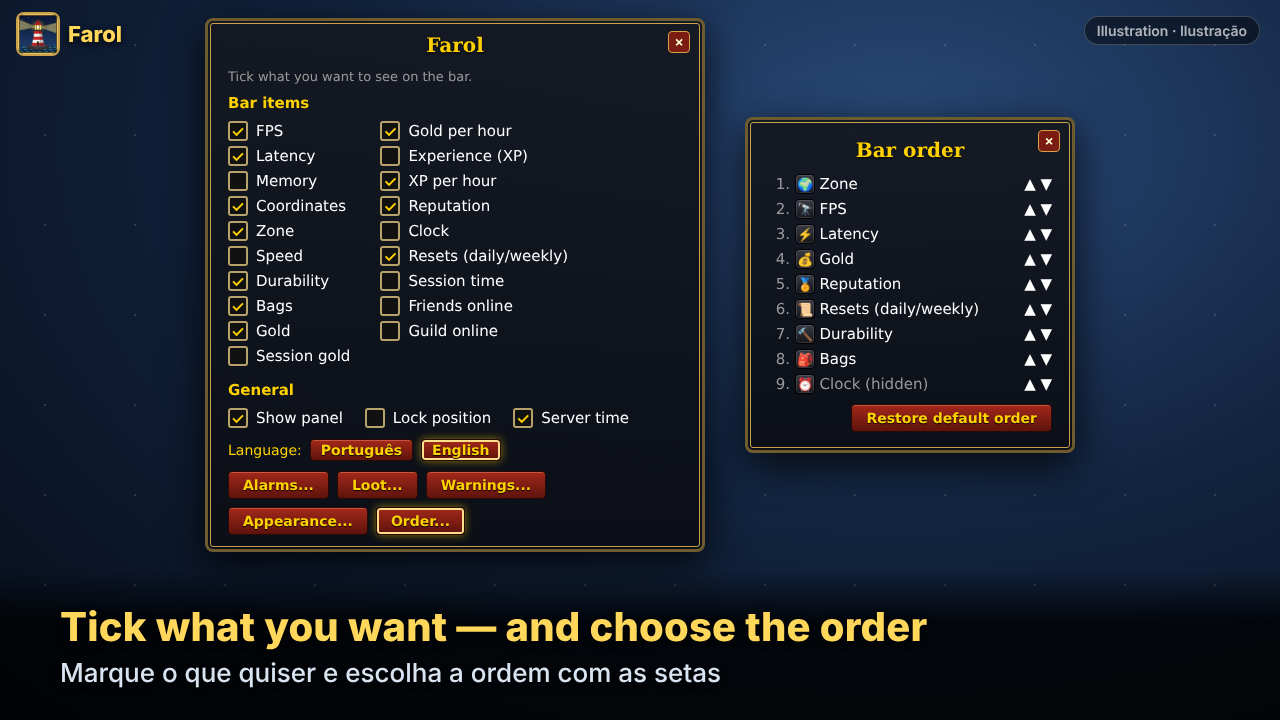
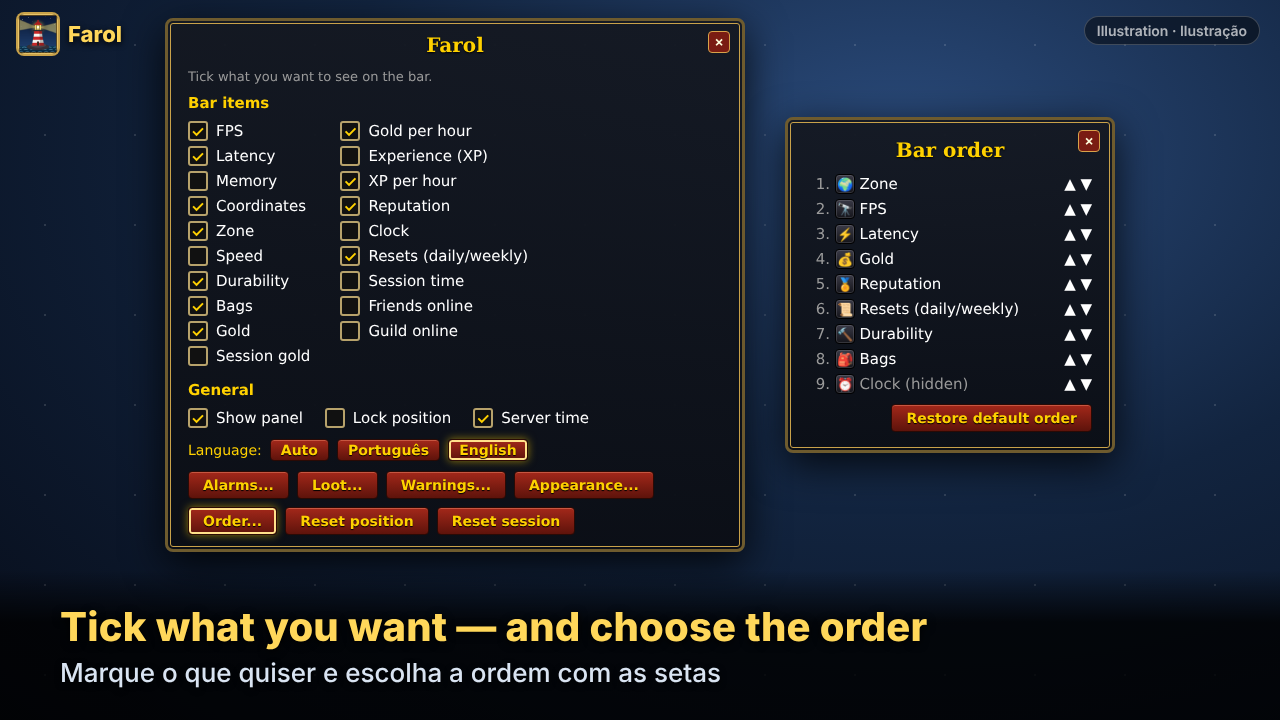
Docs review: bring READMEs, CLAUDE.md and menu illustration up to date
- READMEs (EN/PT): intro lists all 19 items and the alarms/loot/warnings features; CurseForge as an
  install source; rep/h in session reset; /farol warn status; quick-button appearance commands;
  default items named explicitly; tooltip mentions reputation and resets; WoW Forever note no longer
  claims Farol only reads 4 values; saved-data list complete (order, appearance, warning history);
  code lives in the Farol folder (not only Core.lua); test coverage list; ZIP packaging rule.
- CLAUDE.md: ns exports (GetWatchedFaction, GetResetTimes, GetServerClock), ~120 tests, 19 items.
- Illustration 03: Auto language button, Reset position and Reset session buttons (as in the game).

Claude-Session: https://claude.ai/code/session_01BGNd8jLBZJw5iNs8DwdX47

Changed region(s): [[0.125, 0.0, 0.9062, 0.7639], [0.125, 0.0, 0.1875, 0.0611]]

diff --git a/assets/curseforge/make_pages.py b/assets/curseforge/make_pages.py
@@ -108,12 +108,12 @@ names = ["FPS","Latency","Memory","Coordinates","Zone","Speed","Durability","Bag
 on = {0,1,3,4,6,7,8,10,12,13,15}
 half = 10
 col = lambda rng: "".join(f'<div class="ck"><span class="box">{"✓" if i in on else ""}</span>{names[i]}</div>' for i in rng)
-menu = f"""<div class="win" style="width:500px;padding-top:12px;padding-bottom:14px"><div class="x">×</div><div class="t">Farol</div>
+menu = f"""<div class="win" style="width:580px;padding-top:12px;padding-bottom:14px"><div class="x">×</div><div class="t">Farol</div>
 <div class="dim" style="font-size:13px">Tick what you want to see on the bar.</div>
 <div class="h">Bar items</div><div style="display:flex;gap:30px"><div>{col(range(0,half))}</div><div>{col(range(half,19))}</div></div>
 <div class="h">General</div><div style="display:flex;gap:22px"><div class="ck"><span class="box">✓</span>Show panel</div><div class="ck"><span class="box"></span>Lock position</div><div class="ck"><span class="box">✓</span>Server time</div></div>
-<div style="display:flex;gap:8px;align-items:center;margin-top:6px"><span class="k" style="font-size:14px">Language:</span><span class="btn" style="padding:2px 10px">Português</span><span class="btn hl" style="padding:2px 10px">English</span></div>
-<div style="display:flex;gap:8px;margin-top:10px;flex-wrap:wrap"><span class="btn">Alarms...</span><span class="btn">Loot...</span><span class="btn">Warnings...</span><span class="btn">Appearance...</span><span class="btn hl">Order...</span></div></div>"""
+<div style="display:flex;gap:8px;align-items:center;margin-top:6px"><span class="k" style="font-size:14px">Language:</span><span class="btn" style="padding:2px 10px">Auto</span><span class="btn" style="padding:2px 10px">Português</span><span class="btn hl" style="padding:2px 10px">English</span></div>
+<div style="display:flex;gap:8px;margin-top:10px;flex-wrap:wrap"><span class="btn">Alarms...</span><span class="btn">Loot...</span><span class="btn">Warnings...</span><span class="btn">Appearance...</span><span class="btn hl">Order...</span><span class="btn">Reset position</span><span class="btn">Reset session</span></div></div>"""
 order_names = [("🌍","Zone"),("🔭","FPS"),("⚡","Latency"),("💰","Gold"),("🏅","Reputation"),("📜","Resets (daily/weekly)"),("🔨","Durability"),("🎒","Bags"),("⏰","Clock (hidden)")]
 order = '<div class="win" style="width:330px"><div class="x">×</div><div class="t">Bar order</div>' + "".join(
     f'<div class="ck" style="justify-content:space-between"><span><span class="dim" style="display:inline-block;width:22px;text-align:right">{i+1}.</span> {ic(e)} <span class="{"dim" if "hidden" in n else ""}">{n}</span></span><span>▲ ▼</span></div>'

diff --git a/README.md b/README.md
@@ -3,8 +3,10 @@
 [Português](README.pt-BR.md) | **English**
 
 **Farol** (Portuguese for *lighthouse*) is a **free and open-source**, unofficial addon for WoW Forever: a small, draggable on-screen panel showing
-**FPS · latency · memory · coordinates · zone · speed · durability · bags · gold · session gold · XP · clock · session time · friends · guild** — you pick what shows.
-Hover the panel for a detailed tooltip, and choose which items appear on the bar.
+**FPS · latency · memory · coordinates · zone · speed · durability · bags · gold · session gold · gold/hour · XP · XP/hour ·
+reputation · clock · daily/weekly resets · session time · friends · guild** — you pick what shows (19 items).
+Hover the panel for a detailed tooltip. It also has **clock alarms**, a **recent loot window** and **warnings**
+(durability, bags, unspent talents, lower-rank spells).
 
 ## Installation
 
@@ -12,7 +14,7 @@ Hover the panel for a detailed tooltip, and choose which items appear on the bar
 > `Interface/AddOns/WoWForeverInfo` folder before installing `Farol`. Your old settings are not carried
 > over (just re-tick your items in the menu), and the chat command is now `/farol`.
 
-1. Download this repository (**Code → Download ZIP**).
+1. Install it from **CurseForge** (search for *Farol*), or download this repository (**Code → Download ZIP**).
 2. Copy the `Farol` folder into `World of Warcraft/_forever_/Interface/AddOns/`
    (the result must be `_forever_/Interface/AddOns/Farol/Core.lua`).
    Other clients use their own folder, e.g. `_retail_` or `_classic_era_`.
@@ -27,8 +29,9 @@ Hover the panel for a detailed tooltip, and choose which items appear on the bar
 | `/farol menu`       | Open the options menu (or right-click the panel) |
 | `/farol loot`       | Open the recent loot window |
 | `/farol loot clear` | Clear this character's loot history |
-| `/farol session reset`| Restart session gold, gold/h, XP/h and time |
-| `/farol warn`       | Open the warnings window (durability and bags) |
+| `/farol session reset`| Restart session gold, gold/h, XP/h, rep/h and time |
+| `/farol warn`       | Open the warnings window (durability, bags, talents, spell ranks) |
+| `/farol warn status`| Show what Farol can read on your client (talents, reputation, resets) |
 | `/farol history`    | Last 10 warnings (also the note button next to the bar, or a key binding) |
 | `/farol appearance` | Open the appearance window (scale, background, layout, hide in combat) |
 | `/farol order`      | Choose the order of the items on the bar |
@@ -106,7 +109,8 @@ Open **Appearance...** in the options menu (or `/farol appearance`):
 - **Restore defaults** puts everything back.
 
 Commands: `/farol appearance scale 120`, `/farol appearance bg 40`, `/farol appearance text 14`, `/farol appearance icons 20`, `/farol appearance row`, `/farol appearance column`, `/farol appearance width 400`,
-`/farol appearance border`, `/farol appearance combat`, `/farol appearance instance`, `/farol appearance default`.
+`/farol appearance border`, `/farol appearance combat`, `/farol appearance instance`, `/farol appearance icons` (on/off),
+`/farol appearance button` (warning history button), `/farol appearance lootbutton`, `/farol appearance default`.
 
 ## Durability and bag warnings
 
@@ -169,9 +173,10 @@ modern client may hide chat contents from addons; those items are simply not rec
 
 ## Bar items
 
-The first six items are on by default; the others start off — tick them in the menu.
+Six items are on by default (FPS, latency, coordinates, zone, durability and gold); the others start off — tick
+them in the menu.
 
-Session items (session gold, gold/h, XP/h, session time) count from login or `/reload`. Use **Reset session**
+Session items (session gold, gold/h, XP/h, reputation per hour, session time) count from login or `/reload`. Use **Reset session**
 in the menu, or `/farol session reset`, to restart them (e.g. when you move to a new farming spot).
 
 | Item            | Shows                                                  | Command name | Default |
@@ -210,7 +215,8 @@ tooltip adds progress, reputation per hour and an estimate of the time to the ne
 shows when each one happens in local and server time. Older clients only report the daily reset.
 
 **Tooltip:** hover the panel to see every detail at once — home/world latency, subzone, each damaged
-item, exact XP and rested, local *and* server time, friends split by WoW / Battle.net, and more.
+item, exact XP and rested, reputation progress, when the daily/weekly reset happens, local *and* server time,
+friends split by WoW / Battle.net, and more.
 
 **Privacy:** friends and guild items only read **counts**; no names are read or stored.
 
@@ -235,8 +241,8 @@ patch marks the addon as incompatible, update the number in `_Mainline.toc` from
 ### WoW Forever notes
 
 WoW Forever runs on the modern (Midnight) client and inherits its "secret values" combat restrictions.
-This addon only reads FPS, latency, coordinates and gold; if the game hides a value, the panel shows `--`
-instead of raising an error.
+Every value Farol reads is protected: if the game hides or blocks a value (for example during combat), the panel
+shows `--` instead of raising an error.
 
 ## Security
 
@@ -245,9 +251,12 @@ Information security is this project's first rule:
 - **Nothing leaves your computer.** The addon never uses `SendAddonMessage`, chat or any other channel to send data.
 - **No external code is executed.** No `loadstring`/`RunScript`; commands only accept fixed words.
 - **No automation.** It only reads and displays information; it never plays for you (which would break server rules).
-- **Saved data is validated.** `FarolDB` only stores the panel's position, state, language, visible items your alarms (time, clock type, on/off, a cleaned-up name and the snooze time) and warning settings. `FarolCharDB` (per character) stores only validated item links from your loot history, and is
-  checked on load — a corrupted or tampered file falls back to defaults.
-- **Only download from the official source** (this repository). Addons are plain Lua text: you can read all of it in `Core.lua`.
+- **Saved data is validated.** `FarolDB` only stores your settings: panel position and state, language, visible
+  items and their order, appearance, alarms (time, clock type, on/off, a cleaned-up name and the snooze time),
+  loot window and warning settings. `FarolCharDB` (per character) stores only your loot history (validated item
+  links) and the last 10 warnings. Everything is checked on load — a corrupted or tampered file falls back to defaults.
+- **Only download from the official sources** (this repository or the CurseForge page). Addons are plain Lua text:
+  you can read all of it in the `Farol` folder.
 
 Found a security issue? Please report it **privately** (Security → Report a vulnerability), as explained in
 [`SECURITY.md`](SECURITY.md). Never include personal data, passwords or account details.
@@ -256,7 +265,8 @@ Found a security issue? Please report it **privately** (Security → Report a vu
 
 The add-on has automated tests that run **outside the game**, on Lua 5.1 (the same version the WoW client
 uses), against a small mock of the WoW API (`tests/wow_mock.lua`). They cover the bar on WoW Forever and
-3.3.5a clients, secret values, the options menu, alarms and snooze, the loot window, the `.toc` files, and a
+3.3.5a clients, secret values, the options menu, alarms and snooze, the loot window, warnings, appearance,
+reputation, resets, the `.toc` files, and a
 scan that fails if the code ever uses automation, messaging or dynamic-code APIs, and fuzzing with random and
 malicious commands, chat messages and tampered saved data.
 
@@ -270,8 +280,10 @@ install-ready `Farol-<version>` package to each run (Actions tab → the run →
 ## Publishing on CurseForge
 
 The page text is in [`assets/curseforge-description.md`](assets/curseforge-description.md) and the project
-avatar in [`assets/farol-icon-400.png`](assets/farol-icon-400.png). Upload a ZIP whose root contains only the
-`Farol` folder, and select the WoW Forever game version (1.60.1).
+avatar in [`assets/farol-icon-400.png`](assets/farol-icon-400.png); the screenshots (illustrations) are in
+[`assets/curseforge/`](assets/curseforge/). Upload a ZIP whose root contains **only** the `Farol` folder (with
+`LICENSE.txt` inside it — any file loose at the root is rejected), and select the WoW Forever game version (1.60.1).
+Each GitHub Actions run builds that package for you (*Artifacts*).
 
 The in-game icon (`Farol/Media/Farol.tga`, shown in the AddOns list) is original artwork made for this project.
 
@@ -282,7 +294,7 @@ This addon follows Blizzard's [UI Add-On Development Policy](https://us.forums.b
 | Policy rule | This addon |
 |---|---|
 | Must be free | ✅ Free, MIT license — no paid version, no paid features |
-| Code must be visible (no obfuscation) | ✅ Plain, commented Lua in `Core.lua` |
+| Code must be visible (no obfuscation) | ✅ Plain, commented Lua in the `Farol` folder |
 | No ads or donation requests | ✅ None, in game or in this repository |
 | Must not hurt realm performance | ✅ Only server request is the guild roster, at most once a minute and only if the Guild item is on (the same thing the game's own Guild window does) |
 | Must not automate gameplay | ✅ Uses only the official addon API to **read and display** information; it never casts, moves, targets, buys, sells or sends chat |

diff --git a/CLAUDE.md b/CLAUDE.md
@@ -47,11 +47,12 @@ personalizável, alarmes, janela de saques e avisos. Publicado no CurseForge. Li
 Farol/
   Farol*.toc        4 arquivos (.toc); mesma versão em todos; ordem de carga: Core, Alarm, Loot, Warnings,
                     Appearance, Order
-  Core.lua          barra (grade de células), itens, tooltip, menu de opções, comandos /farol, dados salvos
+  Core.lua          barra (grade de células), 19 itens, tooltip, menu de opções, comandos /farol, dados salvos
   Alarm.lua         alarmes do relógio, soneca, janela e janelinha
   Loot.lua          janela de últimos saques, menus suspensos próprios, botão 👜
   Warnings.lua      avisos (durabilidade, bolsas, talentos, graus), "Silenciar / Lembrar em 30 min", histórico 📝
-  Appearance.lua    escala, fundo, tamanhos de texto/ícone, formato (uma linha / uma coluna), esconder em combate
+  Appearance.lua    escala, fundo, tamanhos de texto/ícone, formato (uma linha / uma coluna), esconder em combate,
+                    mostrar/esconder os botões rápidos 📝 👜
   Order.lua         ordem dos itens na barra
   Bindings.xml      atalho de teclado oficial (só abre o histórico de avisos)
   Media/Farol.tga   ícone original (64×64)
@@ -64,7 +65,9 @@ assets/             ícones, texto do CurseForge, imagens de divulgação (asset
 
 - Arquivos compartilham a tabela `ns` (`local _, ns = ...`). O Core exporta `ns.T` (tradução), `ns.Print`,
   `ns.GetDB`, `ns.IsSecret`, `ns.frame`, `ns.UpdateText`, `ns.ApplyAppearance`, `ns.ApplyVisibility`,
-  `ns.MakeToplevel`, `ns.LayoutQuickButtons`, `ns.SetBarWidth`, `ns.ITEM_ORDER`, `ns.ITEM_ICONS`.
+  `ns.MakeToplevel`, `ns.LayoutQuickButtons`, `ns.SetBarWidth`, `ns.ITEM_ORDER`, `ns.ITEM_ICONS`,
+  `ns.GetWatchedFaction`, `ns.GetResetTimes` e `ns.GetServerClock` (hora do servidor validada: relógio, alarmes e
+  resets usam só ela, nunca `GetGameTime` direto).
 - Cada módulo adiciona seus textos em `ns.STRINGS.pt` / `ns.STRINGS.en` e usa `T("chave")`.
 - **Globais:** só nomes começando com `Farol` (janelas/botões), `FarolDB`, `FarolCharDB`, `SLASH_FAROL1`,
   `Farol_ToggleWarnHistory`, `BINDING_*`. Nada de globais genéricos.
@@ -82,7 +85,7 @@ assets/             ícones, texto do CurseForge, imagens de divulgação (asset
 ## Testes
 
 ```
-lua5.1 tests/run.lua        # ~100 testes; deve terminar com "0 failed"
+lua5.1 tests/run.lua        # ~120 testes; deve terminar com "0 failed"
 ```
 
 - `tests/wow_mock.lua`: simulador da API (modos `forever`, `wotlk` e `secret`). `H:login()`, `H:slash()`,
